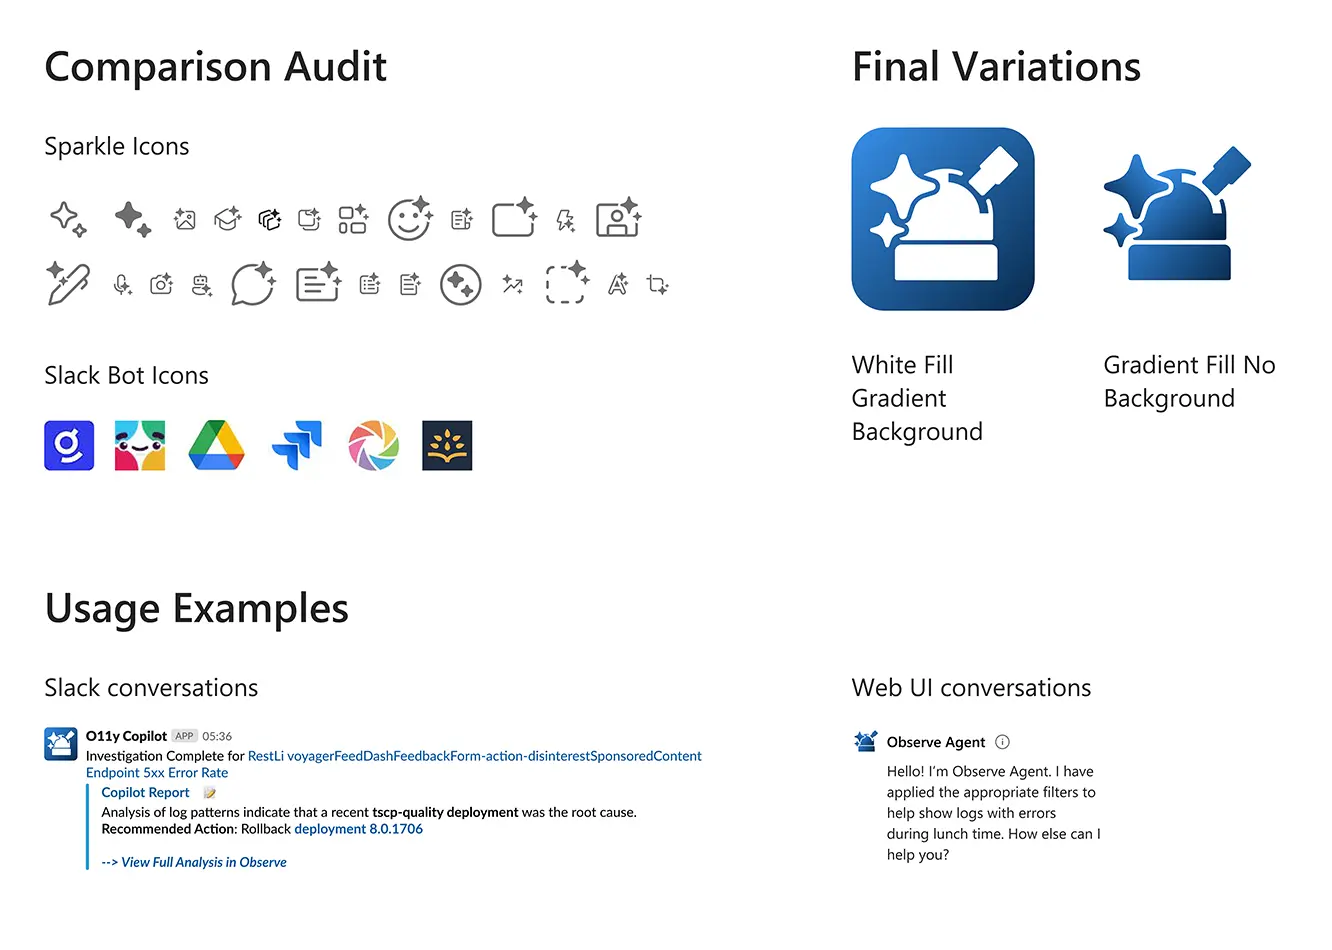
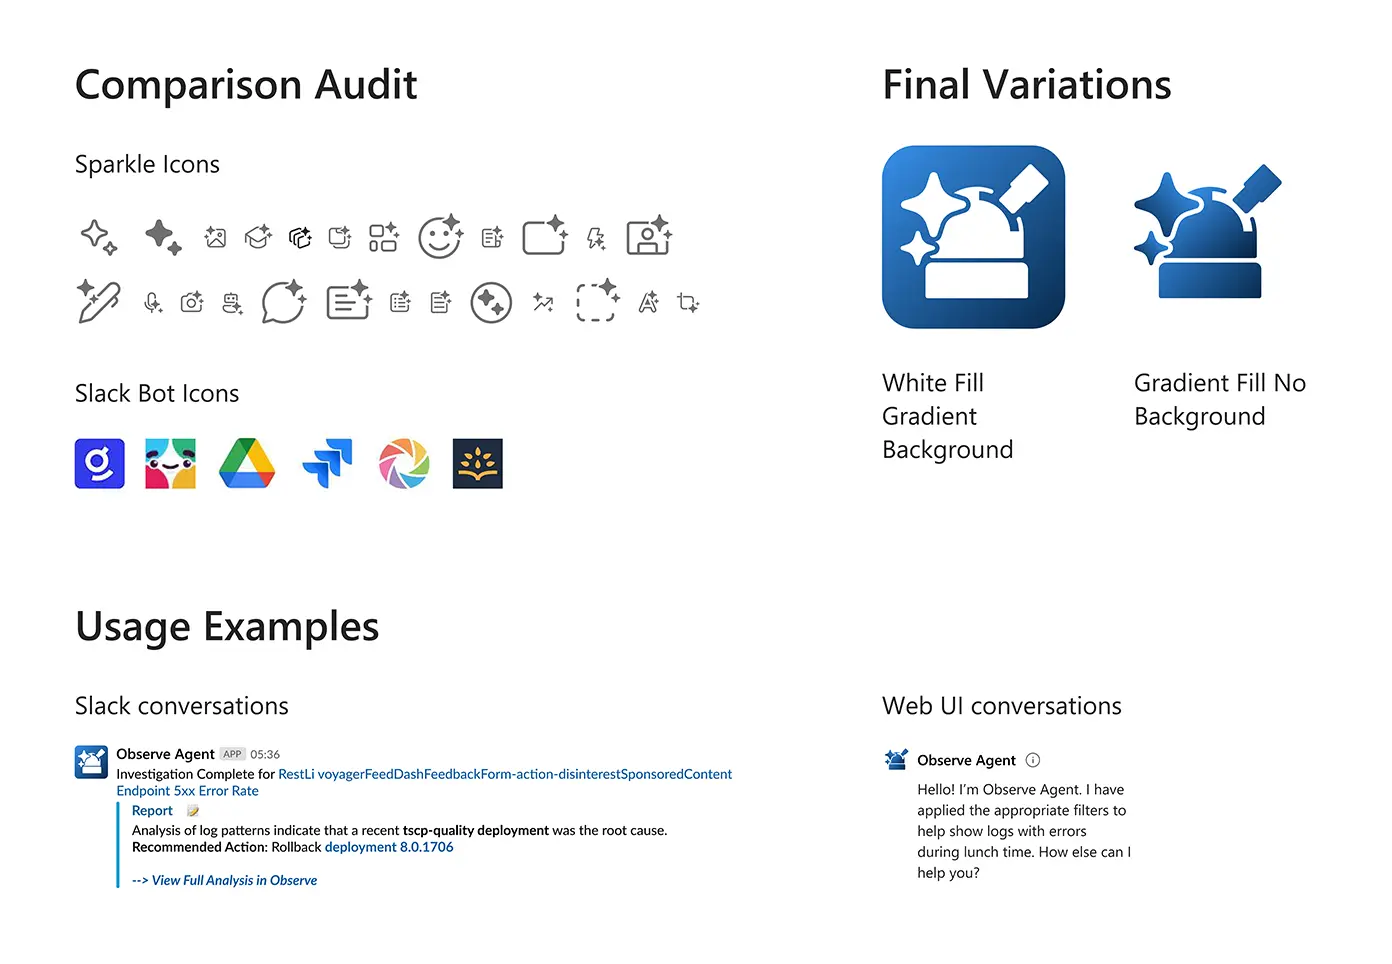
Refine Agentic AI Chat case study, second pass (#50)
Add an agent-layers diagram section ("An Agent, Not a Chatbot") and a
full-page view screenshot showing an inline chart artifact. Re-export
four images at 2x, cut the O11y Copilot naming beat from the icon
section (renamed "An Icon Built to Earn Trust"), and tighten copy and
captions throughout. Add a per-image lightboxMaxWidth field so sparse
diagrams don't fill the whole Lightbox.

diff --git a/src/components/CaseStudyPage.jsx b/src/components/CaseStudyPage.jsx
@@ -66,7 +66,7 @@ export default function CaseStudyPage() {
     blocks: toBlocks(section).map((block) => {
       if (block.type !== 'image') return block
       const lightboxIdx = lightboxImages.length
-      lightboxImages.push({ src: block.src, alt: block.alt, caption: block.caption, unframed: block.unframed })
+      lightboxImages.push({ src: block.src, alt: block.alt, caption: block.caption, unframed: block.unframed, lightboxMaxWidth: block.lightboxMaxWidth })
       return { ...block, lightboxIdx }
     }),
   }))
@@ -95,6 +95,8 @@ export default function CaseStudyPage() {
   // site's 800px column while that's being evaluated case by case; `unframed`
   // (opt out) drops the standard border/radius for alpha-transparent
   // composites, where a frame would draw a rectangle around empty canvas.
+  // `lightboxMaxWidth` (opt in, a number) does the same for the Lightbox, for
+  // sparse diagrams that feel oversized at full viewer size.
   const mediaModifiers = (block) =>
     block?.unframed ? ' case-study__media--unframed' : ''
 

diff --git a/src/components/Lightbox.jsx b/src/components/Lightbox.jsx
@@ -85,6 +85,7 @@ export default function Lightbox({ images, index, onIndexChange, onClose }) {
           className={`lightbox__image${image.unframed ? ' lightbox__image--unframed' : ''}`}
           src={assetUrl(image.src)}
           alt={image.alt || ''}
+          style={image.lightboxMaxWidth ? { maxWidth: `min(${image.lightboxMaxWidth}px, 100%)` } : undefined}
         />
         {image.caption && <figcaption className="lightbox__caption">{image.caption}</figcaption>}
       </figure>

diff --git a/planning/backlog.md b/planning/backlog.md
@@ -8,10 +8,13 @@ pass) are done, see Done below, and so are the first passes of the case-study re
 image work, and so are the Lightbox caption treatment and the WCAG contrast fix. What's left
 is lower-priority or longer-horizon.
 
-- [ ] Case study second pass: refine content and re-export images together, one case study at a time. Combines the second passes of "Refine case study content" and "Case study image assets" (both first passes are in Done). Decided 2026-09-18: Jim finds it a good workflow to tighten a page's content and re-export its images in the same sitting, rather than as two separate sweeps. One worktree and branch per case study, as in the first pass (`fix/refine-case-study-<id>`).
+- [ ] Case study second pass: refine content and re-export images together, one case study at a time. Combines the second passes of "Refine case study content" and "Case study image assets" (both first passes are in Done). Decided 2026-09-18: Jim finds it a good workflow to tighten a page's content and re-export its images in the same sitting, rather than as two separate sweeps. One worktree, branch, and PR per case study, like the first pass (e.g. PR #37).
+  - Naming (decided 2026-09-23): branch `fix/refine-case-study-<id>-pass-2`, worktree `../worktrees/fix-refine-case-study-<id>-pass-2`. The `-pass-2` suffix keeps each page's two passes distinct in PR lists and history (the first-pass branch names are deleted and technically reusable, but reusing them would make the passes indistinguishable).
+  - References per page: `planning/refine-case-studies.md` is the primary source (per-page decisions, open flags, export history). The page's first-pass PR is secondary, mainly for its diff: exactly what the first pass cut or reworded from the original copy, useful for staying faithful to Jim's voice. First-pass PRs: operational-insights #36 (pilot), agentic-ai-chat #37, genomic-data-platform #38, ai-recommendations #39, developer-experience #40, machine-learning-for-operators #41, mobile-emergency-system #42, additive-manufacturing #43, analytics-big-data #44.
   - Order: tbd, Jim's call. The 2026-09-14 note in the first-pass item flagged the first 4 (Operational Insights, Agentic AI Chat, Genomic Data Platform, AI Recommendations) for a further pass ahead of the remaining 5, which were done first; all 4 also predate the 2x export standard (2026-09-16).
   - Method per page: same as the first pass. Full source review (principle 10), refine, re-export, record `width`/`height`, verify with `npm run build` and the Playwright one-line caption check. Working notes stay in `planning/refine-case-studies.md`.
   - Carries over from the first pass: (a) images still on 100%-scale exports, both Pillow passes (no cwebp/ImageMagick in this environment) and older re-exports, get re-exported at 2x from the original design files, which turns the first pass's "bump to 2x opportunistically when a page is next touched" rule into the plan (twice the display width, so 1744px unconstrained or `2 * maxWidth`, see principle 7); (b) open flags recorded per page in `planning/refine-case-studies.md`, notably Analytics & Big Data (confirm the shipped Orchestration Editor matches the storyboard's red/green connection interaction, confirm the Analytics Catalog identification, whether the 2013 workshop-room photo `GE-SR0012.JPG` belongs to this project, three different product names across the artifacts) and Machine Learning for Operators (AI Workbench vs. Analytics Workbench naming, unresolved); (c) captions: the Lightbox caption restyle (see Done) kept the ~90-100 character one-line budget, so no caption rewrites are needed on its account; keep writing to it and re-run the wrap check as each page is touched.
+  - **Agentic AI Chat done (2026-09-24)**, branch `fix/refine-case-study-agentic-ai-chat-pass-2`. Added the agent-layers diagram section and the full-page view screenshot, re-exported 4 images, cut the O11y Copilot naming beat, added a per-image `lightboxMaxWidth` field, and did a full copy review. Open image flags are in `planning/refine-case-studies.md`.
 
 - [ ] Restore case study video content — the previous site (jimreedia.myportfolio.com) **embedded its videos from Vimeo** (Jim's Vimeo account is the canonical home for the source clips). The rebuild dropped them or replaced them with stills. Known cases: **Samsung Interactive TV** ("Video Mockups" — After Effects motion studies), **Developer Experience** (hands-on coding-tip web videos + After Effects motion prototypes; `Predix/cloud foundry/PredixIO_nav_behavior.mov` also exists locally), **Mobile Emergency System** ("Motion Study" — the current `motion-study.png` is actually a screen-flow diagram, not the animation). Also fold in the remaining animated GIF — `AI Recommendations/AI-Recommendations_animated-behaviors.gif`. Scope: (1) pull the Vimeo list and map each clip to its case study (featured + more); (2) decide hosting — keep Vimeo embeds vs. self-host MP4/WebM (see the hosting note below); (3) add a `video` block type to `CaseStudyPage.jsx` / the `blocks` schema (poster frame; short silent motion-study loops can autoplay-muted-loop, longer demos get controls; respect `prefers-reduced-motion`; if Vimeo, use a lazy `<iframe>` with `dnt=1` and a click-to-play poster so it isn't an unfetched third-party frame on load — mind the CSP if one gets added); (4) place each video in its narrative section and update `caseStudies.json`. Coordinate with the "Case study image assets" WebP pass and the hand/gear GIF→CSS item.
   - Done for Operational Insights (2026-09-12, via the "Refine case study content" item): `Operational Insights/OI-Slack-app.gif` is in on a new "What I Tried Based on What I Heard From Customers" section, copied straight in as `slack-app.gif` and rendered via a plain `<img>` (GIFs animate natively, no `video` block type needed for this one). Not yet addressed: it autoplay-loops with no `prefers-reduced-motion` handling, since a GIF's own frame animation can't be paused via CSS media query alone; would need a JS-driven play/pause affordance if that matters here. Samsung and Banking Experiences entries were removed from the site entirely (2026-09-11, see the "Refine case study content" item), so their video needs no longer apply.

diff --git a/planning/refine-case-studies.md b/planning/refine-case-studies.md
@@ -326,6 +326,27 @@ actual (slightly different) final dimensions. Captions added in the earlier cont
 pass already carried the banners' story-weight content, so they didn't need to change.
 Verified with `npm run build` and screenshots after each swap.
 
+**Second pass (2026-09-24), branch `fix/refine-case-study-agentic-ai-chat-pass-2`.** Jim
+re-exported `observe-agent-home` (1744×1168), `agent-in-context` (1948×1168), and
+`icon-design` (1392×964) at 2x. The icon image now shows one name everywhere, so the
+O11y Copilot naming beat was cut from Branding (Jim: not compelling for this story). New
+decision section **An Agent, Not a Chatbot: Designing the Layers Above the Model**, placed
+before Three Primitives, with the agent-layers diagram (`agentic-ai-chat-agent-layers.webp`,
+1744×900, full column width, default frame, slide title kept as Jim exported it). Brief:
+`case studies/LinkedIn Agent/agent-layers-case-study-handoff.md`. Supporting edits: the intro
+now calls it an agent designed for the domain, not a general-purpose chatbot, and Three Primitives opens
+"Inside those layers." Every caption was checked with the one-line render check, inline and in the
+Lightbox. On mobile (390px), the diagram's small box text is too small to read, but its labels are
+readable. Later the same day: added `agent-fullscreen.webp` (1708×1168) to Three Primitives
+as the shipped inline artifact, and a sentence in the side panel section on the full-page
+view (the same container as the hero; a conversation continues across either surface). Added
+a per-image `lightboxMaxWidth` field (user-needs 760, side-panel-principles 840, agent-layers
+1100). Full review pass: Branding renamed to **An Icon Built to Earn Trust** (principle 4: no
+bare labels), and the Reflection's "second surface" line reworded, since a full-page surface
+now exists. Open image flags: homepage carousel `agentic-ai-chat-2` shows lorem ipsum plugin
+descriptions, and the chat date in `agent-in-context` and `agentic-ai-chat-3` (April 3)
+doesn't match the log dates (April 6).
+
 ### Genomic Data Platform — done (2026-09-14)
 
 Source review done first, per principle 10: myportfolio original checked (its text is a
